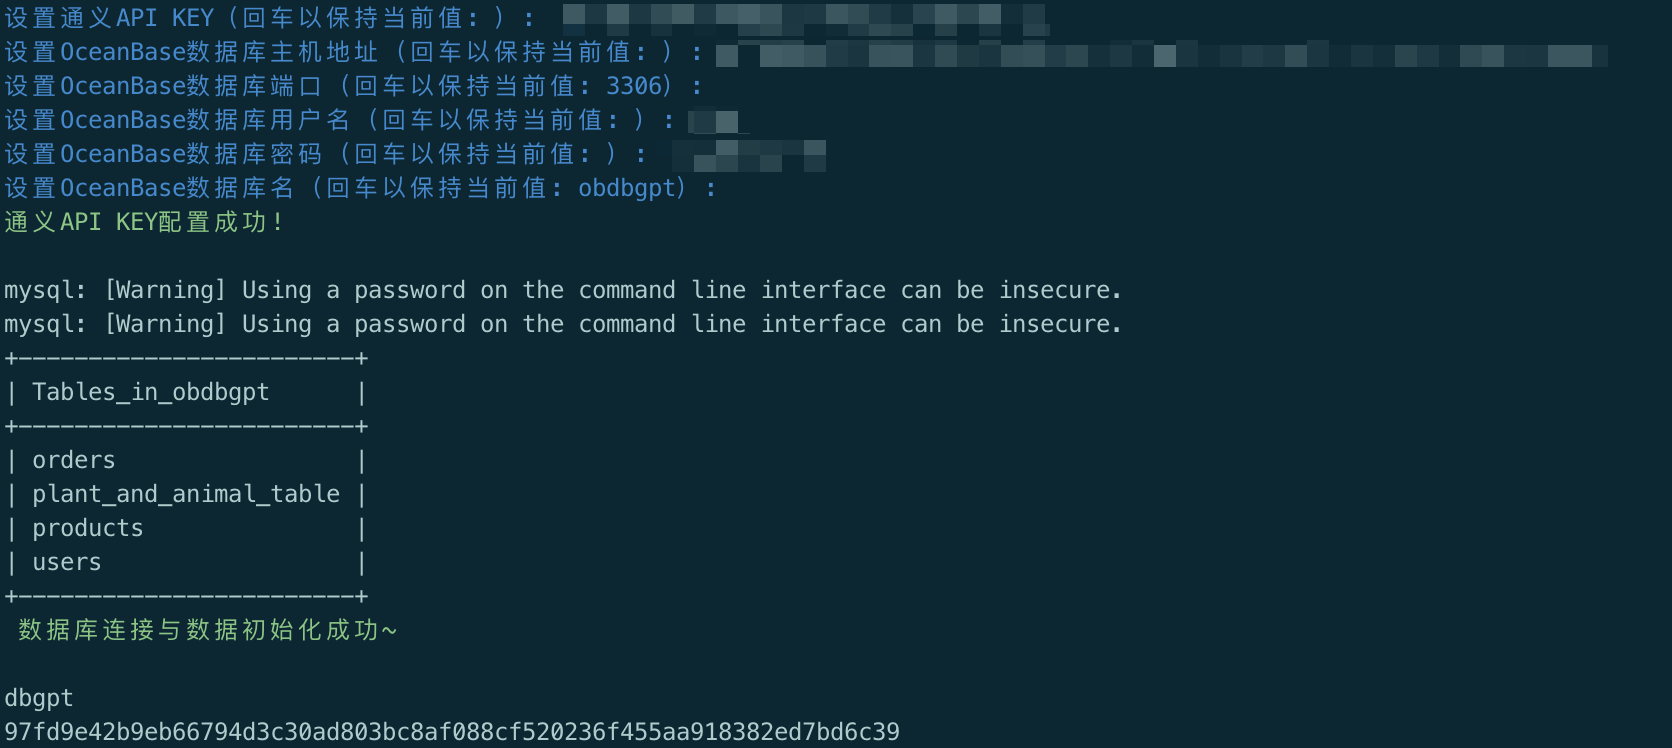
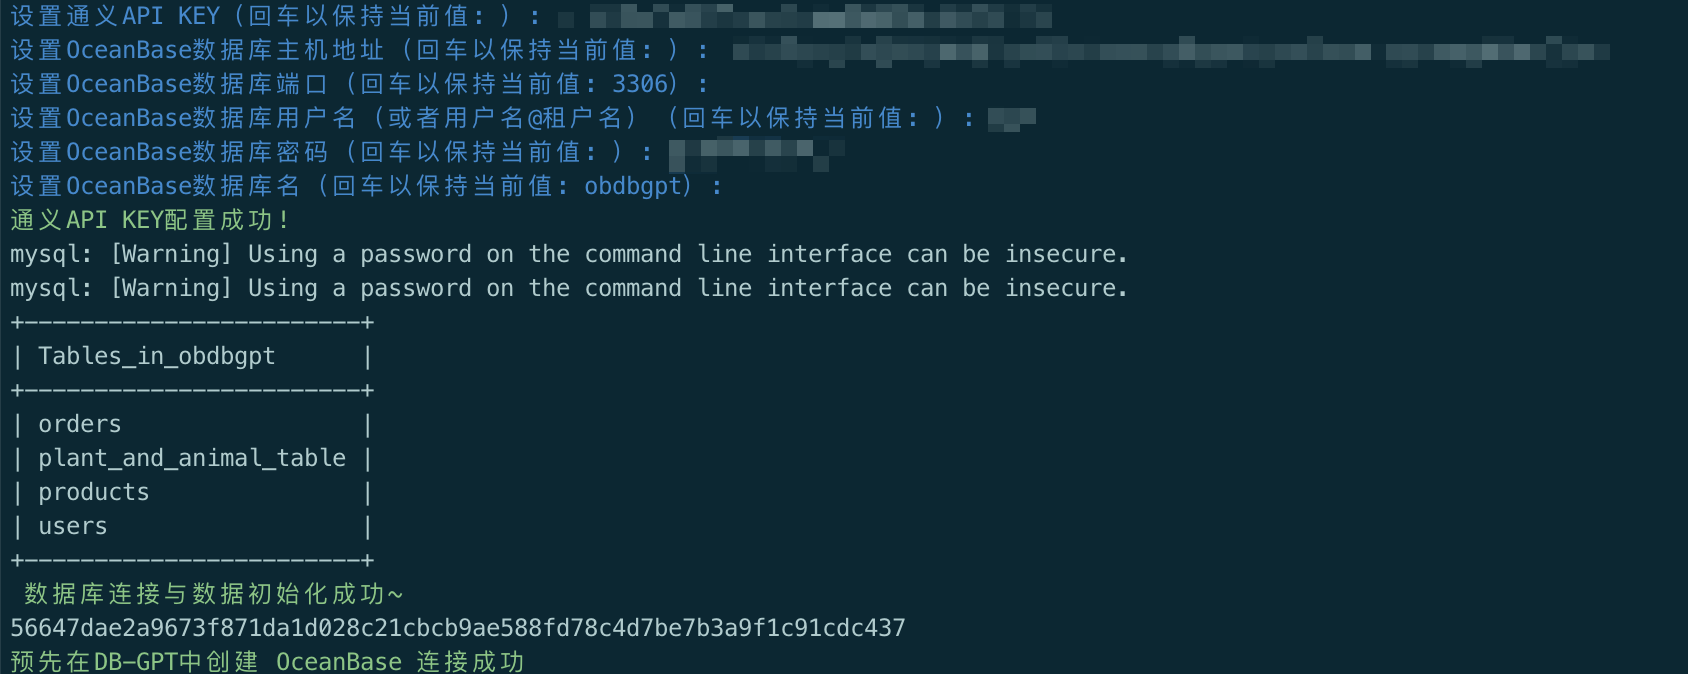
update tutorial

Changed region(s): [[0.0, 0.0, 0.6842, 0.997], [0.7775, 0.0623, 0.9641, 0.0935], [0.6531, 0.0623, 0.7464, 0.0935]]

diff --git a/dbgpt/app/scene/chat_db/auto_execute/out_parser.py b/dbgpt/app/scene/chat_db/auto_execute/out_parser.py
@@ -78,6 +78,10 @@ class DbChatOutputParser(BaseOutputParser):
                 "Could not import scikit-learn package. "
                 "Please install it with `pip install scikit-learn`."
             )
+        
+        nrow, ncol = df.shape
+        if nrow == 0 or ncol == 0:
+            return df, False
 
         _, ncol = df.shape
         vec_col = -1
@@ -91,7 +95,10 @@ class DbChatOutputParser(BaseOutputParser):
                     vec_col = i_col
                     break
         if vec_col == -1:
-            return df
+            return df, True
+        vec_dim = len(json.loads(df.iloc[:, vec_col][0].decode()))
+        if min(nrow, vec_dim) < 2:
+            return df, False
         df.iloc[:, vec_col] = df.iloc[:, vec_col].apply(
             lambda x: json.loads(x.decode())
         )
@@ -108,7 +115,7 @@ class DbChatOutputParser(BaseOutputParser):
             new_df[col_name] = df[col_name]
         new_df["__x"] = [pos[0] for pos in X_pca]
         new_df["__y"] = [pos[1] for pos in X_pca]
-        return new_df
+        return new_df, True
 
     def parse_view_response(self, speak, data, prompt_response) -> str:
         param = {}
@@ -127,8 +134,8 @@ class DbChatOutputParser(BaseOutputParser):
                 param["type"] = prompt_response.display
 
                 if param["type"] == "response_vector_chart":
-                    df = self.parse_vector_data_with_pca(df)
-                    param["type"] = "response_scatter_chart"
+                    df, visualizable = self.parse_vector_data_with_pca(df)
+                    param["type"] = "response_scatter_chart" if visualizable else "response_table"
 
                 param["sql"] = prompt_response.sql
                 param["data"] = json.loads(

diff --git a/docker/compose_examples/ob_dbgpt_tutorial.md b/docker/compose_examples/ob_dbgpt_tutorial.md
@@ -9,9 +9,11 @@ OceanBase 从 4.3.3 版本开始支持了向量数据类型的存储和检索，
 
 ## 实验环境
 
+> 现场体验的用户，无需进行环境配置
+
 - Git
 - [Docker](https://docs.docker.com/engine/install/)
-- MySQL 客户端
+- MySQL 客户端（[如何安装](https://www.modb.pro/db/1681843673074589696)）
 
 ## 平台搭建步骤
 
@@ -94,6 +96,8 @@ cd ./DB-GPT/docker/compose_examples
 
 ![设置启动参数](images/config_setting.png)
 
+> 如果最后一步提示**预先在DB-GPT中创建 OceanBase 连接失败，请稍后根据教程在 Web UI 中设置**，可以照常进行后续步骤，在使用阶段[手动配置数据库](#创建数据库连接) 连接即可
+
 该脚本会做如下几件事：
 
 * 要求用户设置相关参数，输出会包含各项的当前值，如果认可当前值，回车进行下一项；
@@ -105,15 +109,10 @@ cd ./DB-GPT/docker/compose_examples
     3. orders：记录了用户购买产品的订单信息；
     4. plant_and_animal_table：记录了一些动植物名称以及这些名称的向量表示；
 
+* 启动 DB-GPT 服务并等待启动完毕；
+* 尝试向 DB-GPT 预先注册好 `chat data` 应用需要的数据库连接，脚本中直接使用 OceanBase 作为目标数据库；
+
 ![测试数据](images/sample_data.png)
-
-使用以下命令查看 DB-GPT 启动情况，如果观察到最后日志显示 `Code server is ready` 则启动成功：
-
-```bash
-docker logs -f dbgpt
-```
-
-![DB-GPT 运行日志](images/dbgpt_docker_log.png)
 
 ## 访问 DB-GPT 平台
 
@@ -150,6 +149,8 @@ docker logs -f dbgpt
 ![DB-GPT 知识库6](images/knowledge_create_6.png)
 
 ### 创建数据库连接
+
+> 在[启动 Docker 容器](#5-启动-docker-容器)步骤，运行`create_container_with_config_check.sh`脚本得到`预先在DB-GPT中创建 OceanBase 连接成功`提示的用户可以跳过此步骤。
 
 点击`数据库`，选择`OceanBase`数据库，`Create Now`：
 
